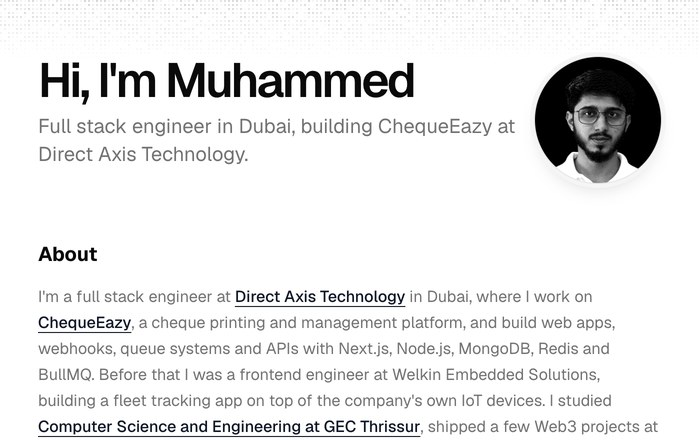
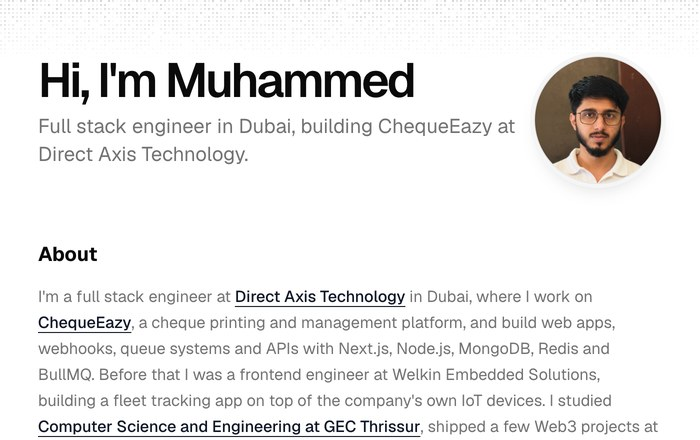
Replace profile photo with the new colour portrait
Zoomed-out square crop: the photo is narrower than the framing, so the
out-of-focus side background is extended with a blurred mirror of the edges.

Changed region(s): [[0.75, 0.1182, 0.96, 0.4136]]

diff --git a/src/data/resume.tsx b/src/data/resume.tsx
@@ -57,7 +57,7 @@ export const DATA = {
       images: ["/previews/notes.jpg"],
     },
   },
-  avatarUrl: "/avatar.png",
+  avatarUrl: "/avatar.jpg",
   github: "Muhammed770",
   skills: [
     { name: "React", icon: ReactLight },
